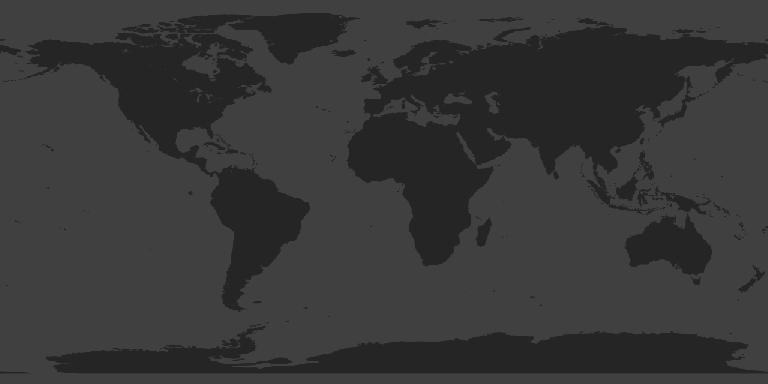
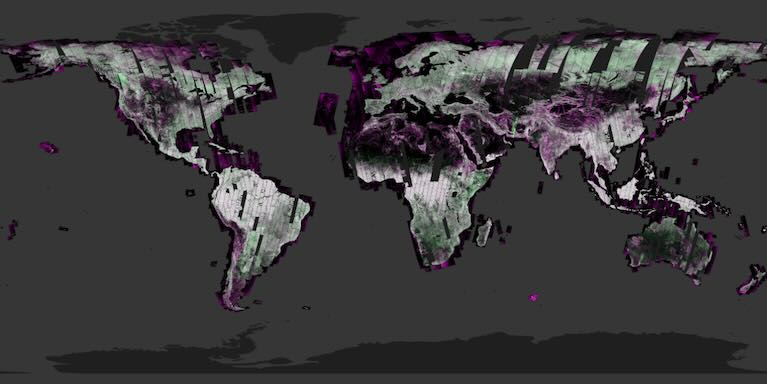
Update SAR rolling 12-day products and preview images

diff --git a/config/default/common/config/metadata/layers/multi-mission/opera/OPERA_L2_Radiometric_Terrain_Corrected_SAR_Sentinel-1_12Day.md b/config/default/common/config/metadata/layers/multi-mission/opera/OPERA_L2_Radiometric_Terrain_Corrected_SAR_Sentinel-1_12Day.md
@@ -1,6 +1,6 @@
 The OPERA Radiometric Terrain Corrected SAR Backscatter from Sentinel-1 (RTC-S1) is a Level-2 (L2) product. It provides terrain-corrected radar images with a 30-meter pixel spacing and a temporal resolution of a few days to weeks on average, depending on the location. Each RTC-S1 product is derived from a Sentinel-1 Interferometric Wide (IW) Single-Look Complex (SLC) burst, provided by the European Space Agency (ESA). Synthetic aperture radar (SAR) images deliver all-weather, day-and-night, imaging of the Earth’s surface.
 
-This 12-Day layer loads the twelve past days of images, with the latest date displayed on top.
+This rolling 12-day layer loads the past twelve days of images, with the latest date displayed on top.
 
 RTC-S1 images are displayed in false-color for better visual interpretation of the SAR backscatter data. The false-color RGB visualization combines both co-polarized VV (vertical transmit vertical receive) or HH (horizontal transmit horizontal receive) backscatter values (red and blue) with cross-polarized VH or HV values (green) to generate a color image from SAR data. In this false-color scale, vegetated areas appear green; urban and/or sparsely vegetated areas appear white/pink; calm water, dry sand, and frozen ground appears black; and rough water appears purple or magenta. Note there are other land covers not listed that may have similar appearance and it is recommended that users consult auxiliary datasets to help determine the land cover of interest.
 

diff --git a/config/default/common/config/metadata/layers/nisar/NISAR_L2_Geocoded_Polarimetric_Covariance_12Day.md b/config/default/common/config/metadata/layers/nisar/NISAR_L2_Geocoded_Polarimetric_Covariance_12Day.md
@@ -1,6 +1,6 @@
 The NISAR Radiometric Terrain Corrected SAR Backscatter from L2 Geocoded Covariance (False Color) PROVISIONAL visualization presents radiometrically terrain corrected backscatter values from NISAR [Provisional](https://www.earthdata.nasa.gov/learn/earth-observation-data-basics/data-maturity-levels) Level-2 (L2) [Geocoded Polarimetric Covariance](https://www.earthdata.nasa.gov/data/catalog/asf-nisar-l2-gcov-provisional-v1-1) (GCOV) products. The imagery is displayed using a false-color RGB decomposition to facilitate visual interpretation of the SAR backscatter data.
 
-This 12-Day layer loads the twelve past days of images, with the latest date displayed on top.
+This rolling 12-day layer loads the past twelve days of images, with the latest date displayed on top.
 
 The NASA-ISRO Synthetic Aperture Radar (NISAR) can image the Earth’s surface in light or darkness, penetrating through clouds and smoke. Its 12-day repeat cycle provides a reliable source of imagery for monitoring surface conditions. For products acquired using [multiple frequencies](https://nisar-docs.asf.alaska.edu/nisar-intro/#nisar-frequencies), the higher-resolution frequency is displayed. All products are resampled to 15.5 m pixel spacing in this visualization, regardless of the source resolution.
 
